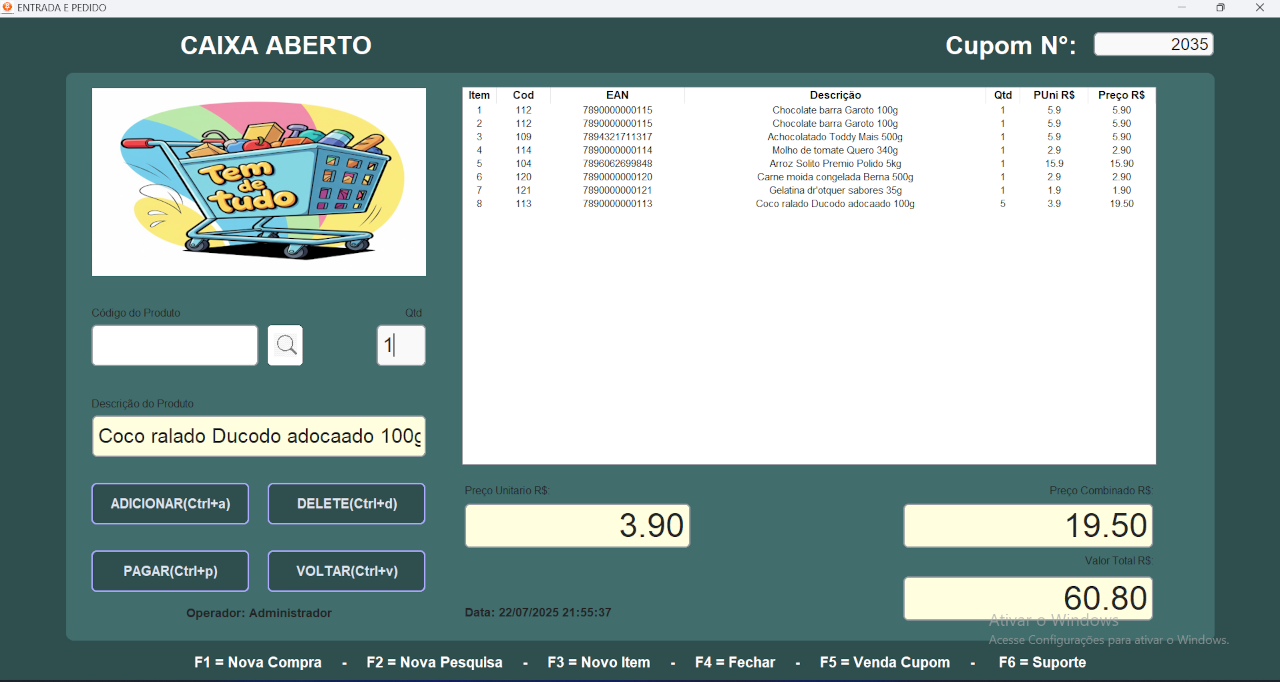
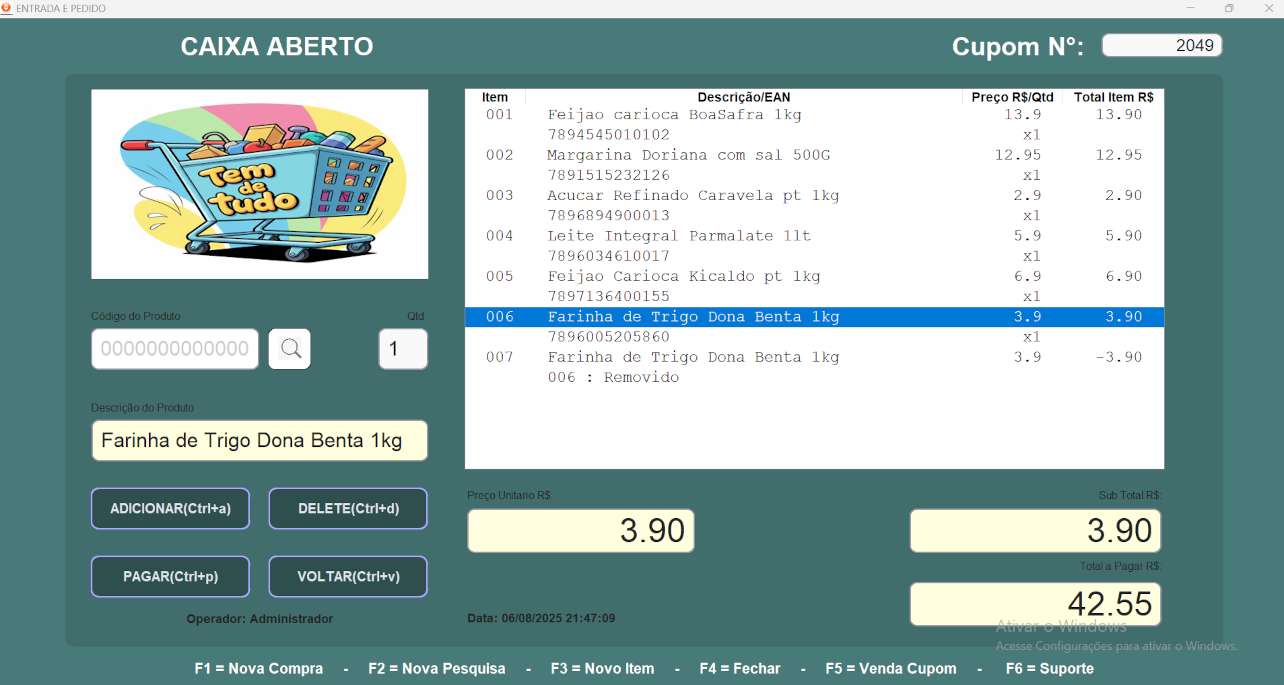
fix:correção de bugs no numero de cupom ao precionar f1 dentro da compra

diff --git a/model/interface.py b/model/interface.py
@@ -15,7 +15,7 @@ import model.modulo_validar_cpf as teste
 def sistema(usuario, empresa):
     data = ""
     carrinho = []
-    cupom = 1000
+    cupom = 0
     num_item = 0
     valor_pagar = 0
     cnpj = '45.333.0001/45'
@@ -23,8 +23,8 @@ def sistema(usuario, empresa):
 
     def nova_compra():
         nonlocal cupom, cpf
-        count = arquivar.gerar_cupom()  # Verifica e atualiza o número do cupom
-        cupom += cupom + int(count)
+        count = arquivar.gerar_cupom(cupom)  # Verifica e atualiza o número do cupom
+        cupom = count
         cpf = teste.cpf()
         
         label_titulo.configure(text="CAIXA ABERTO", font=(
@@ -167,7 +167,7 @@ def sistema(usuario, empresa):
             nonlocal valor_pagar, num_item, cupom, cpf, carrinho
             valor_pagar = 0
             num_item = 0
-            cupom = 1000
+            cupom = 0
             cpf = ""
             carrinho.clear()
             limpar_campos()  # Limpa os campos de entrada e o carrinho
@@ -378,13 +378,13 @@ def sistema(usuario, empresa):
     frame_direita.grid(row=0, column=1, padx=(15, 30), pady=(0, 20))
 
     style = ttk.Style()  
-    style.configure("Set.Treeview.Heading", font=("Helvetica", 14, "bold"))
-    style.configure("Set.Treeview", font=("Courier", 18, "normal"),justify='left', height=40)
+    style.configure("Set.Treeview.Heading", font=("Helvetica", 16, "bold"))
+    style.configure("Set.Treeview", font=("Courier", 24, "normal"),justify='left', rowheight=30)
 
     # Colunas da Tabela
     columns = ["Item/Cod", "Descrição/EAN","PreUnitR$/Qtd", "Preço R$"]
     tree = ttk.Treeview(frame_direita, columns=columns,
-                        show="headings", height=27,style="Set.Treeview")
+                        show="headings", height=18,style="Set.Treeview")
 
     # Definindo os cabeçalhos e as larguras das colunas
     tree.heading("Item/Cod", text=" Item ")

diff --git a/model/modulo_pesquisar.py b/model/modulo_pesquisar.py
@@ -33,12 +33,12 @@ def pesquisar():
     
     
     # estilo da Treeview
-    style_pesquisa = ttk.Style()
-    style_pesquisa.configure("Pes.Treeview.Heading", font=("Arial", 14, "bold"))
-    style_pesquisa.configure("Pes.Treeview", font=("Courier", 18))
+    style= ttk.Style()
+    style.configure("Set.Treeview.Heading", font=("Arial", 14, "bold"))
+    style.configure("Set.Treeview", font=("Courier", 18))
 
     titulos_pesquisar = ["Cod", "EAN", "Descrição"]
-    tree = ttk.Treeview(frame, columns=titulos_pesquisar, show='headings', height=15 ,style="Pes.Treeview")
+    tree = ttk.Treeview(frame, columns=titulos_pesquisar, show='headings', height=15 ,style="Set.Treeview")
    
     tree.heading("Cod", text="Item")
     tree.column("Cod", anchor=tk.E, width=20)
@@ -62,11 +62,11 @@ def pesquisar():
     frame_buttons.columnconfigure(0, weight=1)  # coluna expansiva (entry)
     frame_buttons.columnconfigure(1, weight=0)  # coluna do botão
 
-    entry_pesquisa = ctk.CTkEntry(frame_buttons, placeholder_text="Descrição", width=500, font=("Courier", 18))
+    entry_pesquisa = ctk.CTkEntry(frame_buttons, placeholder_text="Descrição", width=800, font=("Courier", 20))
     entry_pesquisa.grid(row=0, column=0, pady=10, sticky="w")  # coluna 0 → lado esquerdo
 
-    btn_concluir = ctk.CTkButton(frame_buttons, text="ADICIONAR", command=janela_pesquisa.quit,font=("Helvetica", 16))
-    btn_concluir.grid(row=0, column=1, pady=10, sticky="e")    # coluna 1 → lado direito
+    btn_concluir = ctk.CTkButton(janela_pesquisa, text="ADICIONAR", command=janela_pesquisa.quit,font=("Helvetica", 16))
+    btn_concluir.pack(pady=10)    # coluna 1 → lado direito
 
 
     # === função de busca dinâmica (agora entry_pesquisa já existe!) ===

diff --git a/model/modulo_arquivar.py b/model/modulo_arquivar.py
@@ -5,19 +5,25 @@ def conectar_bd():
     curs=conn.cursor()
     return conn, curs
 
-def gerar_cupom():
-    n = 0
-    try:
-        conexao, cursor = conectar_bd()
-        cursor.execute("SELECT COUNT(*) FROM vendas WHERE EXISTS (SELECT 1 FROM vendas)") #testa se existe algum registro e conta o numero de vendas
-        count = cursor.fetchone()[0]
-        print(f'count dentro de gerar cupom {count}')
-        return count
-    
-    except Exception as e:
-        print(f'erro{e}')
-        return n #retorna '0' se não hover um registro no banco
-    
+def gerar_cupom(cupom): 
+    if cupom == 0: 
+        try:
+            conexao, cursor = conectar_bd()
+            cursor.execute("SELECT MAX(n_cupom) FROM vendas") 
+            max = cursor.fetchone()[0]
+            cursor.close()
+            conexao.close()
+            if max is None:
+                return 1000
+            else:
+                return max + 1
+            
+        except Exception as e:
+            print(f'erro{e}')
+            return 1000 
+    return cupom 
+
+   
 def lista_de_vendas():
     conexao, cursor = conectar_bd()
     
